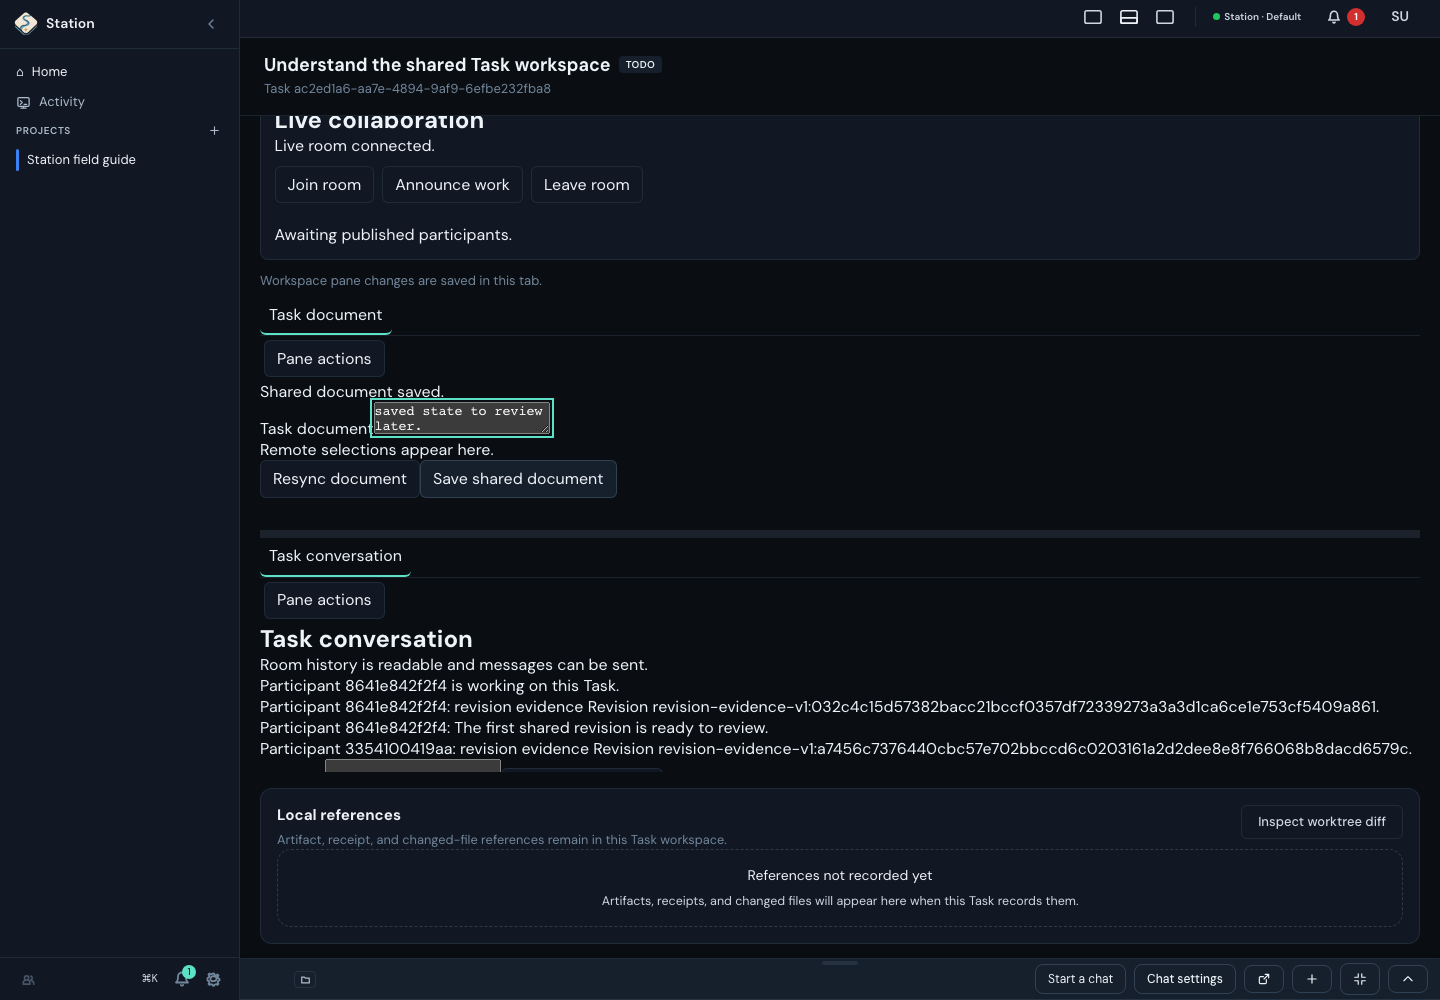
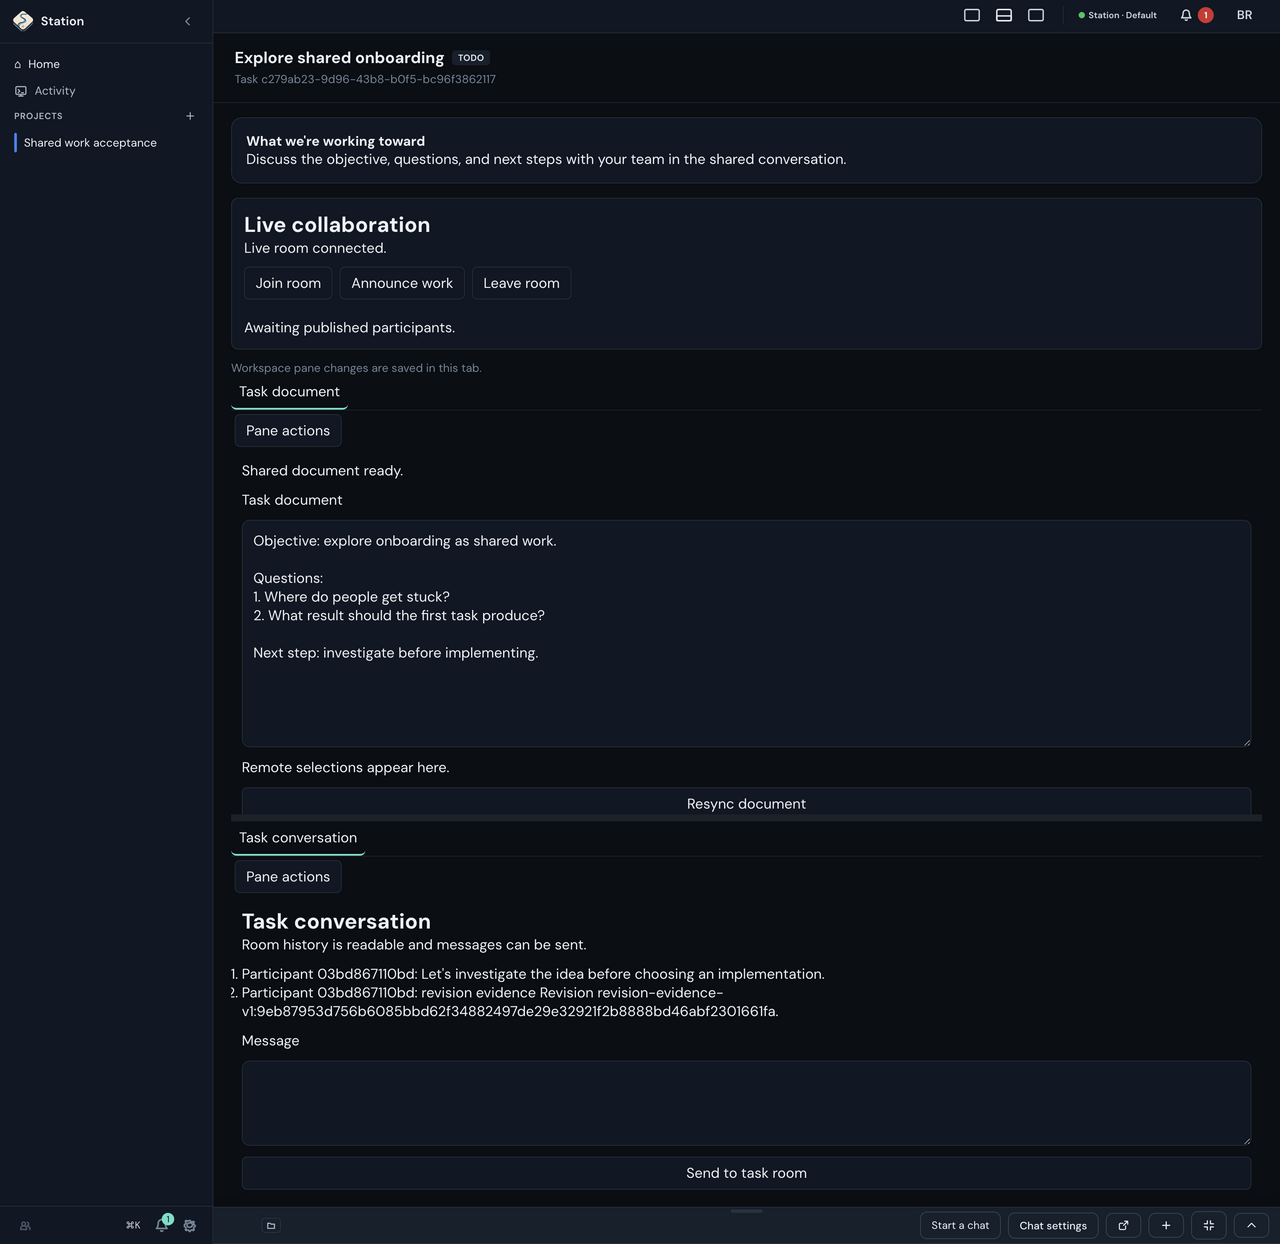
docs(tasks): refresh shared document capture from the production UI

diff --git a/docs/learn/walkthroughs.md b/docs/learn/walkthroughs.md
@@ -17,16 +17,20 @@ matters: work can exist before an engine is ready to execute it.
 The Task's shared document and conversation keep revisions and discussion with
 that work. In this example a person saved a document; the room history records
 revision evidence. This does not demonstrate an external Agent editing alongside
-them. The editor's size and clipped heading at the original capture are visible;
-[#2844](https://github.com/kontourai/station/issues/2844) tracks those usability fixes.
+them. The current editor uses the available width and gives a multi-paragraph
+brief room to breathe. [#2844](https://github.com/kontourai/station/issues/2844)
+also tracks heading/focus and revision-label usability; this capture does not
+establish that every part of that issue is resolved.
 
 ![A saved shared Task document and its revision history.](media/shared-task-document.png)
 
-These captures retain their original revision and appearance. The current Task
+The Project capture retains its original revision and appearance. The Task
+document capture was replaced after actual single-user save/send/reopen checks.
+The current Task
 workspace leads with the objective and shared room, keeps technical identity
 behind **Task and workspace details**, and gives the editor and message field
-responsive width. The captures above do not verify that later layout or resolve
-every issue in #2844. The [shared-work delivery ledger](../plans/shared-work-delivery.md)
+responsive width. The captures above do not verify agent participation,
+two-human collaboration, or every issue in #2844. The [shared-work delivery ledger](../plans/shared-work-delivery.md)
 records the broader channel, board, agent and preview work still to deliver.
 
 Continue with [Starter Work](../guides/starter-work.md),

diff --git a/docs/design/README.md b/docs/design/README.md
@@ -81,6 +81,7 @@ category.
 - [revision-bound-evidence.md](revision-bound-evidence.md) — Design: revision-bound evidence
 - [session-tape-replay.md](session-tape-replay.md) — Session tape replay
 - [settings-architecture.md](settings-architecture.md) — Settings Architecture: scope-first settings for Station
+- [shared-task-channels.md](shared-task-channels.md) — Shared Task channels
 - [shared-working-state.md](shared-working-state.md) — Shared working-state protocol
 - [shell-ownership-and-boards.md](shell-ownership-and-boards.md) — Shell ownership scopes and Boards
 - [shell-skeletons.md](shell-skeletons.md) — Design: Shell skeletons (#193 shell convergence)
@@ -90,6 +91,5 @@ category.
 - [station-topology.md](station-topology.md) — Design: Station topology and role vocabulary
 - [survey-flow-review.md](survey-flow-review.md) — Survey-backed Flow review
 - [task-dispatcher.md](task-dispatcher.md) — Task Dispatcher
-- [shared-task-channels.md](shared-task-channels.md) — Shared Task channels, task board, agent participation, and previews (active delivery target)
 - [work-plane-composition.md](work-plane-composition.md) — Work-Plane Composition: Station as the Native Host of the Kontour Work Plane
 <!-- docs-index:end -->

diff --git a/docs/plans/README.md b/docs/plans/README.md
@@ -9,4 +9,5 @@ Concrete execution plans that expand roadmap phases or major initiatives into im
 - [agent-identity-supported-surface-inventory.md](agent-identity-supported-surface-inventory.md) — Agent identity supported-surface inventory
 - [documentation-code-audit.md](documentation-code-audit.md) — Documentation and architecture audit
 - [issue-class-prevention.md](issue-class-prevention.md) — Issue class prevention
+- [shared-work-delivery.md](shared-work-delivery.md) — Shared work delivery ledger
 <!-- docs-index:end -->
